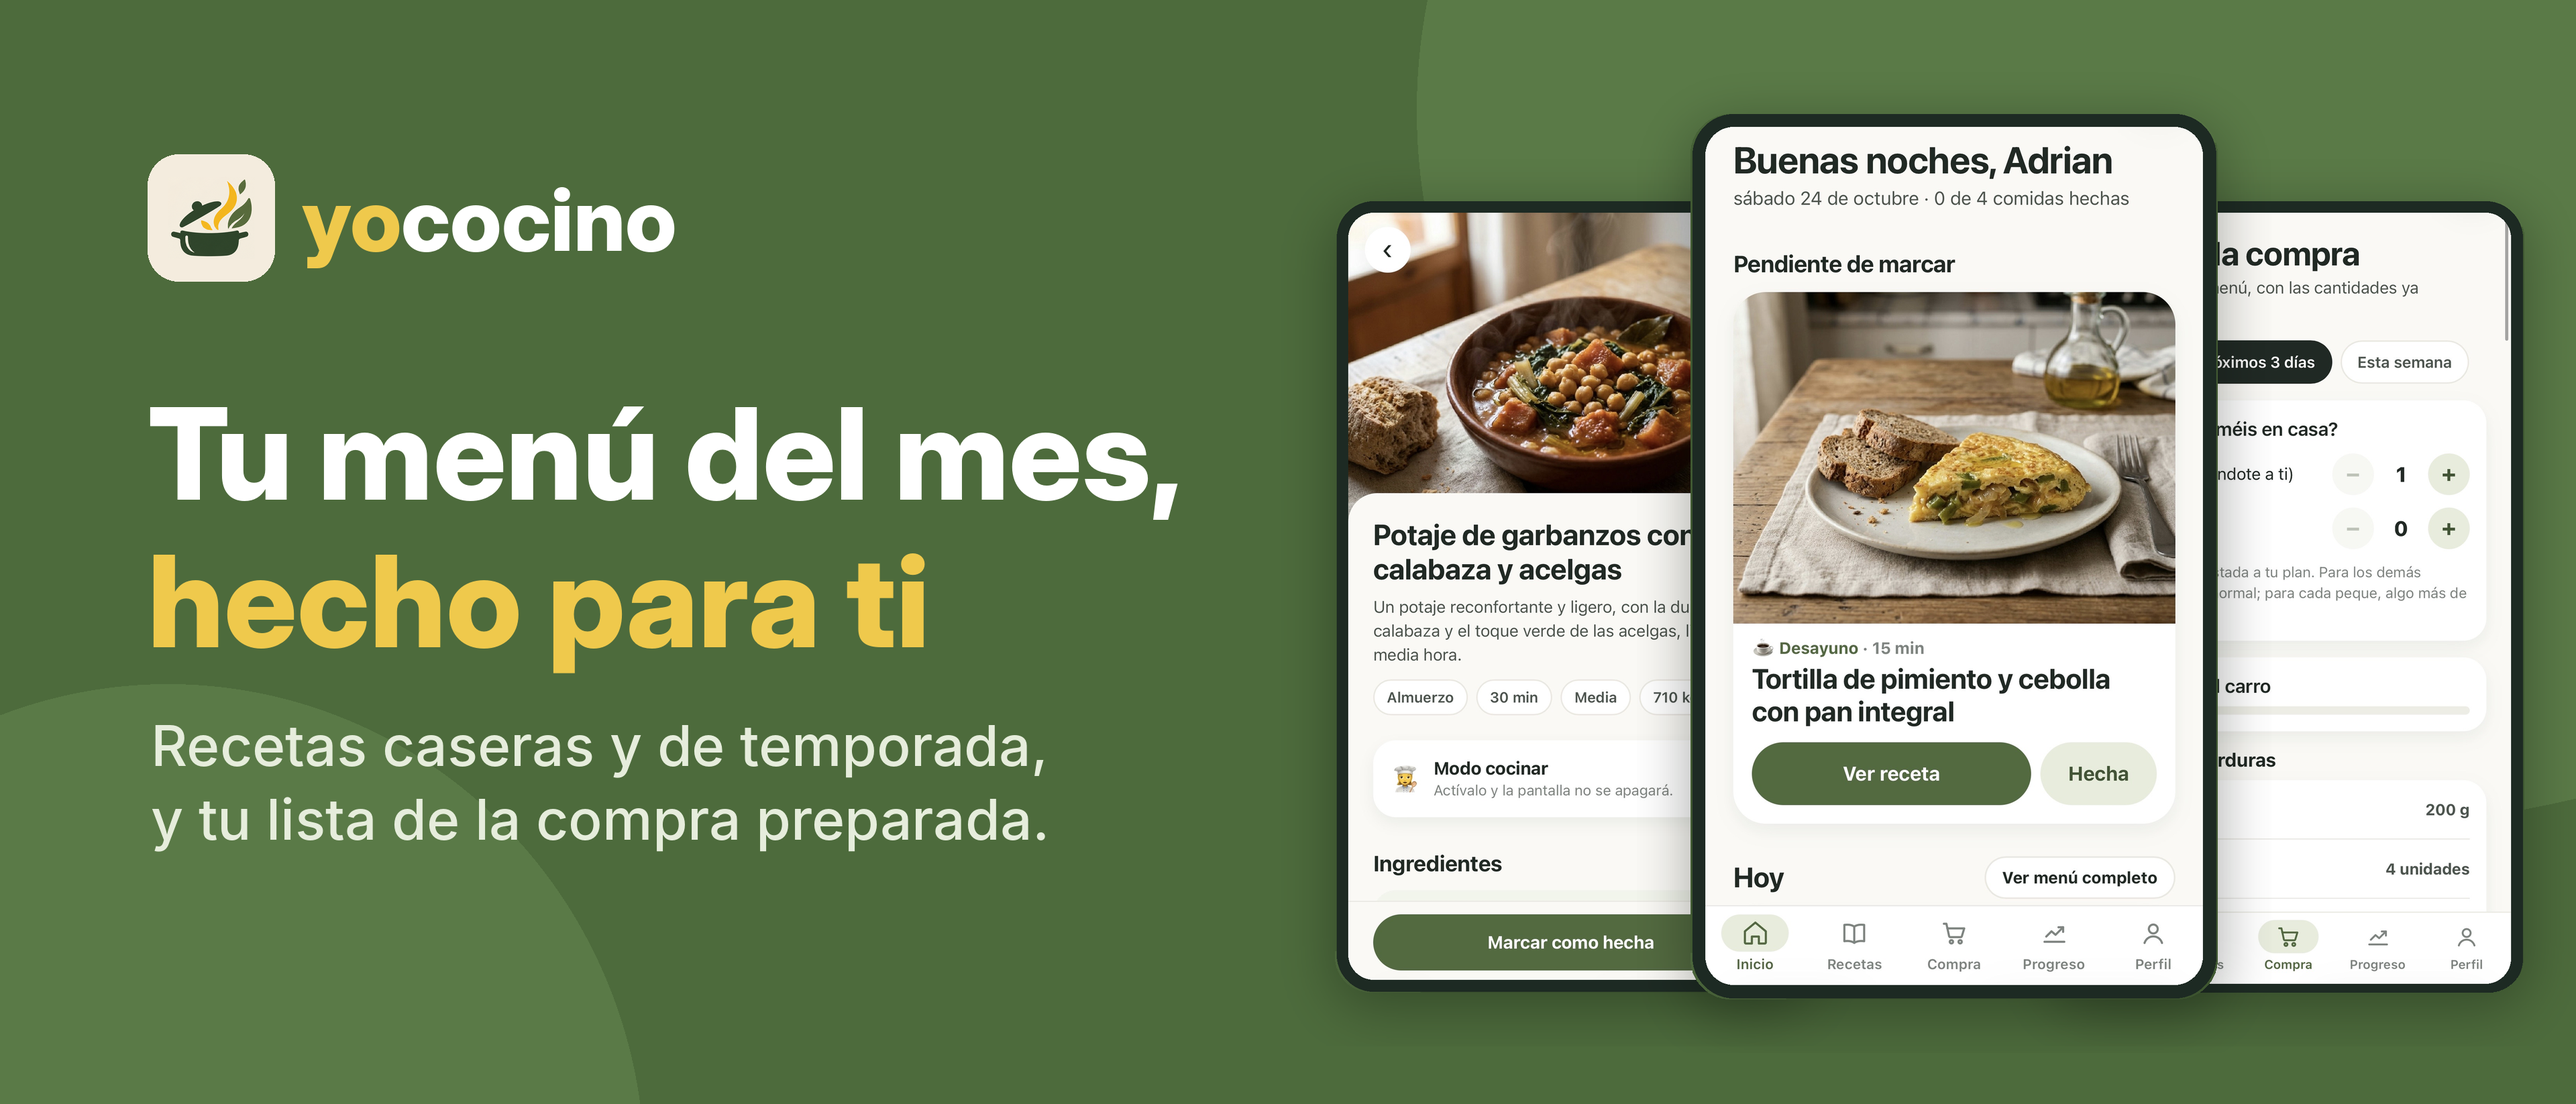
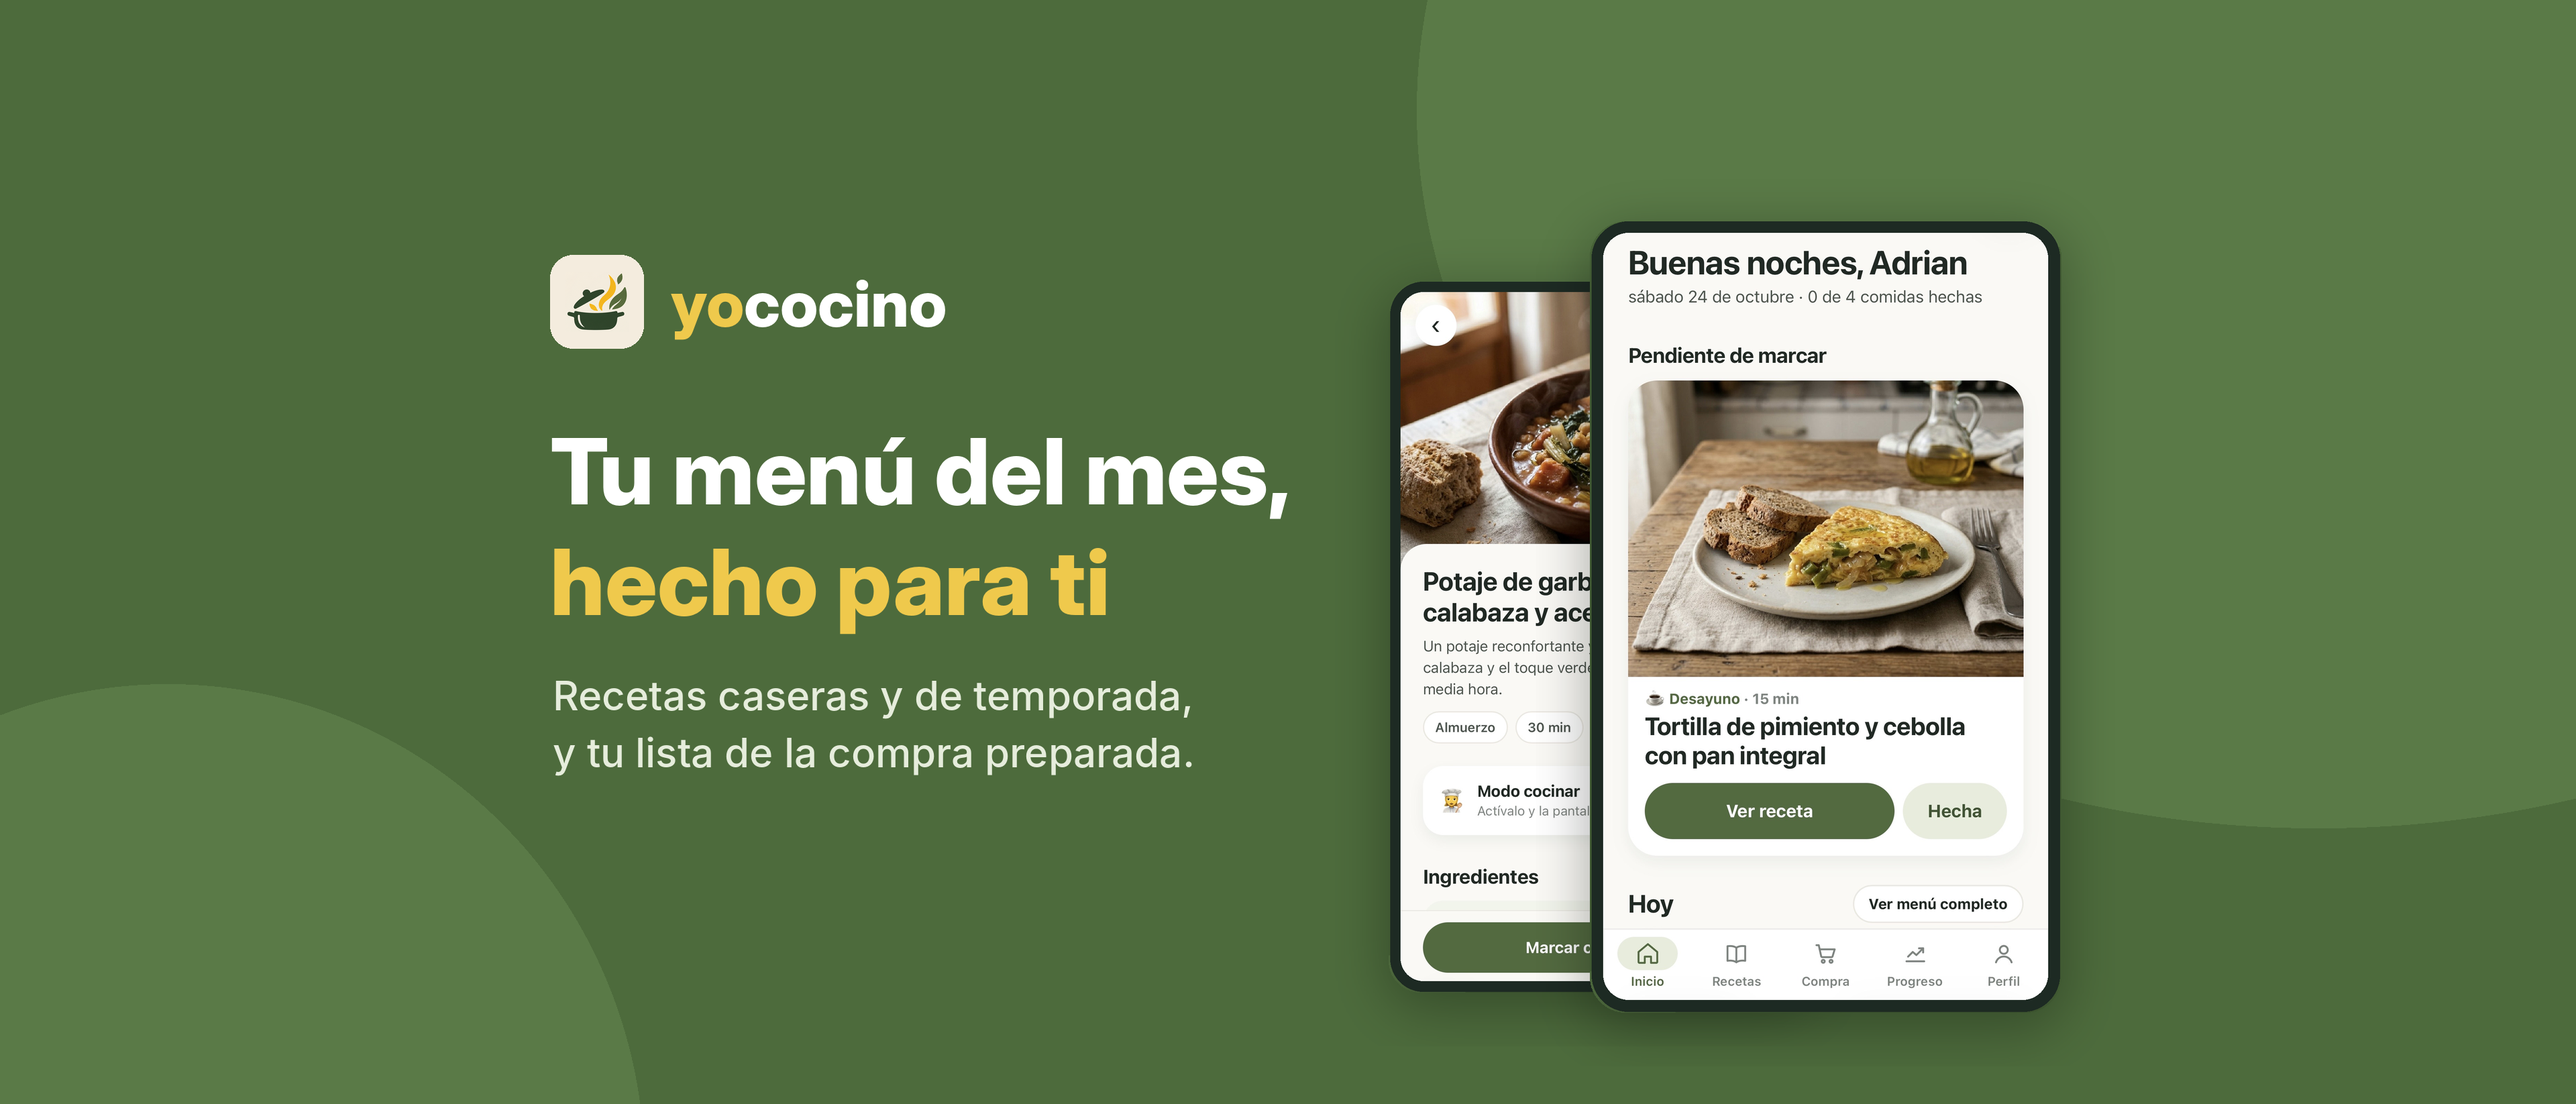
App Store: cabecera con todo en la zona central (recorte del iPhone)
Claude-Session: https://claude.ai/code/session_01JE61KpbSePjAfFRDRt3ruA

diff --git a/tienda/cabecera_app_store.py b/tienda/cabecera_app_store.py
@@ -42,18 +42,18 @@ def fondo(w: int, h: int) -> Image.Image:
     d.ellipse((-w * 0.12, h * 0.62, w * 0.25, h * 1.5), fill=CLARO)
     return img
 
-# Cabecera 21:9
+# Cabecera 21:9. En el iPhone se ve recortada por los lados y con botones arriba: todo va en el centro
+# (entre x≈700 y x≈3140) y nada importante en la franja de arriba.
 W, H = 3840, 1646
 img = fondo(W, H); d = ImageDraw.Draw(img)
-marca(d, img, 220, 230, 190)
-d.text((220, 560), 'Tu menú del mes,', font=TIT(190), fill=BLANCO)
-d.text((220, 780), 'hecho para ti', font=TIT(190), fill=LIMON)
-d.text((225, 1060), 'Recetas caseras y de temporada,', font=MED(84), fill='#E6EDDC')
-d.text((225, 1170), 'y tu lista de la compra preparada.', font=MED(84), fill='#E6EDDC')
-# Los de los lados primero y el del centro encima, sin salirse por la derecha.
-pegar(img, movil(3, 1180), 1990, 300)
-pegar(img, movil(5, 1180), 3060, 300)
-pegar(img, movil(1, 1320), 2520, 170)
+X = 820
+marca(d, img, X, 380, 140)
+d.text((X, 620), 'Tu menú del mes,', font=TIT(136), fill=BLANCO)
+d.text((X, 785), 'hecho para ti', font=TIT(136), fill=LIMON)
+d.text((X + 4, 1000), 'Recetas caseras y de temporada,', font=MED(60), fill='#E6EDDC')
+d.text((X + 4, 1085), 'y tu lista de la compra preparada.', font=MED(60), fill='#E6EDDC')
+pegar(img, movil(3, 1060), 2070, 420)
+pegar(img, movil(1, 1180), 2370, 330)
 img.convert('RGB').save(RAIZ / 'tienda' / 'app-store-cabecera' / 'cabecera-3840x1646.png')
 
 # Resultado de búsqueda 3:2
